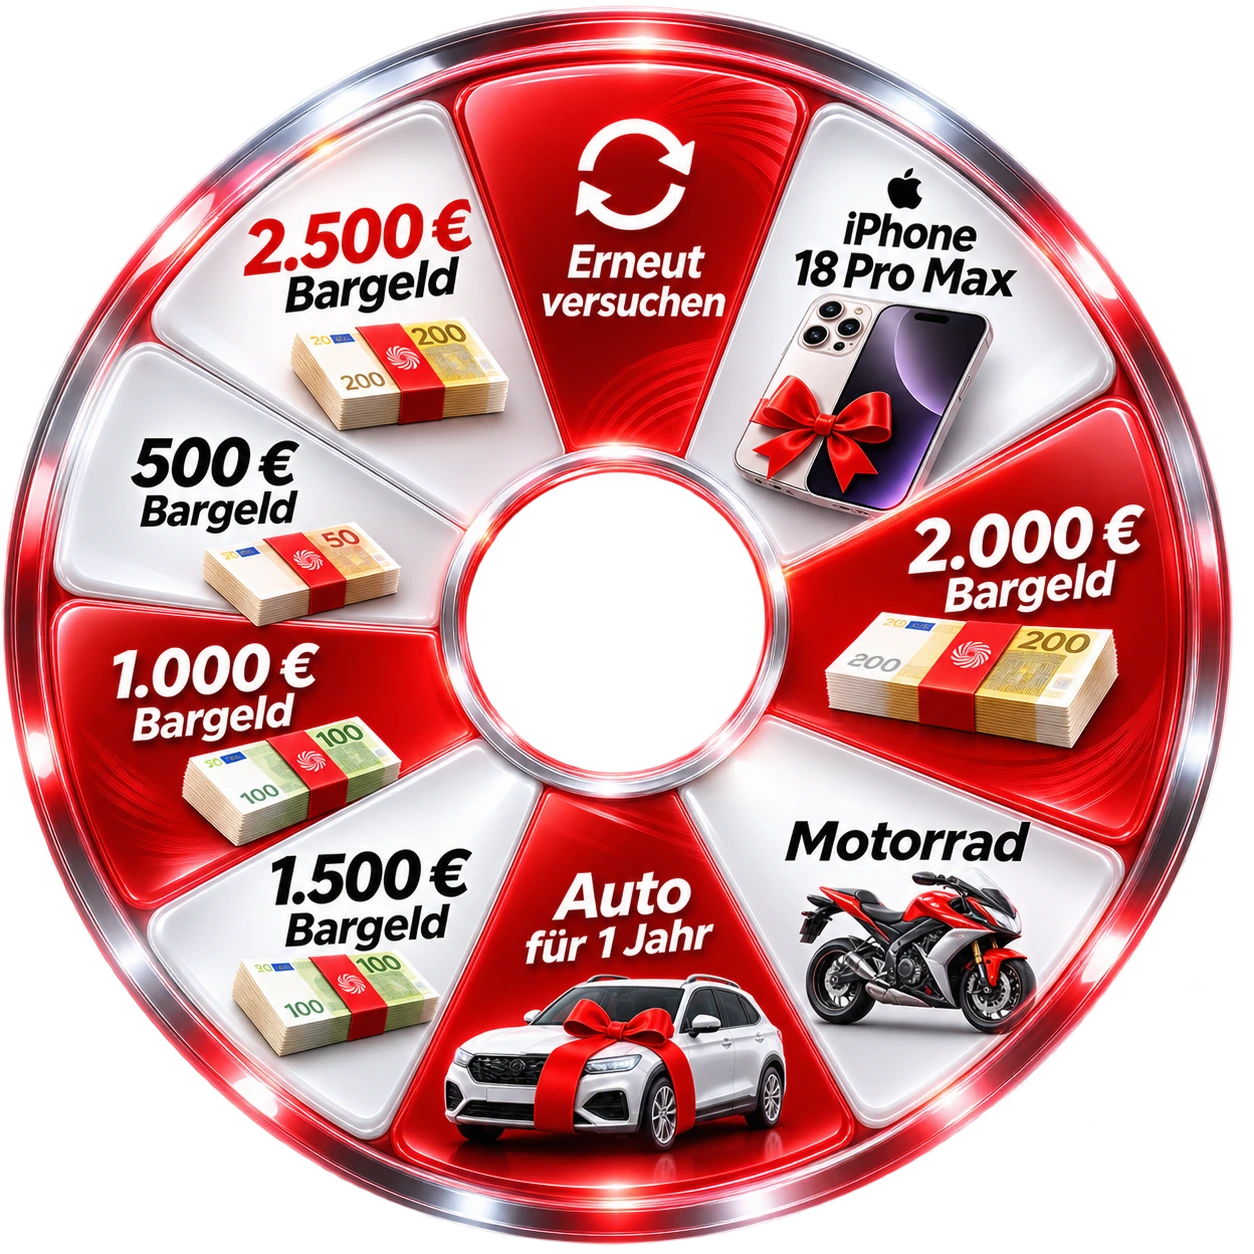
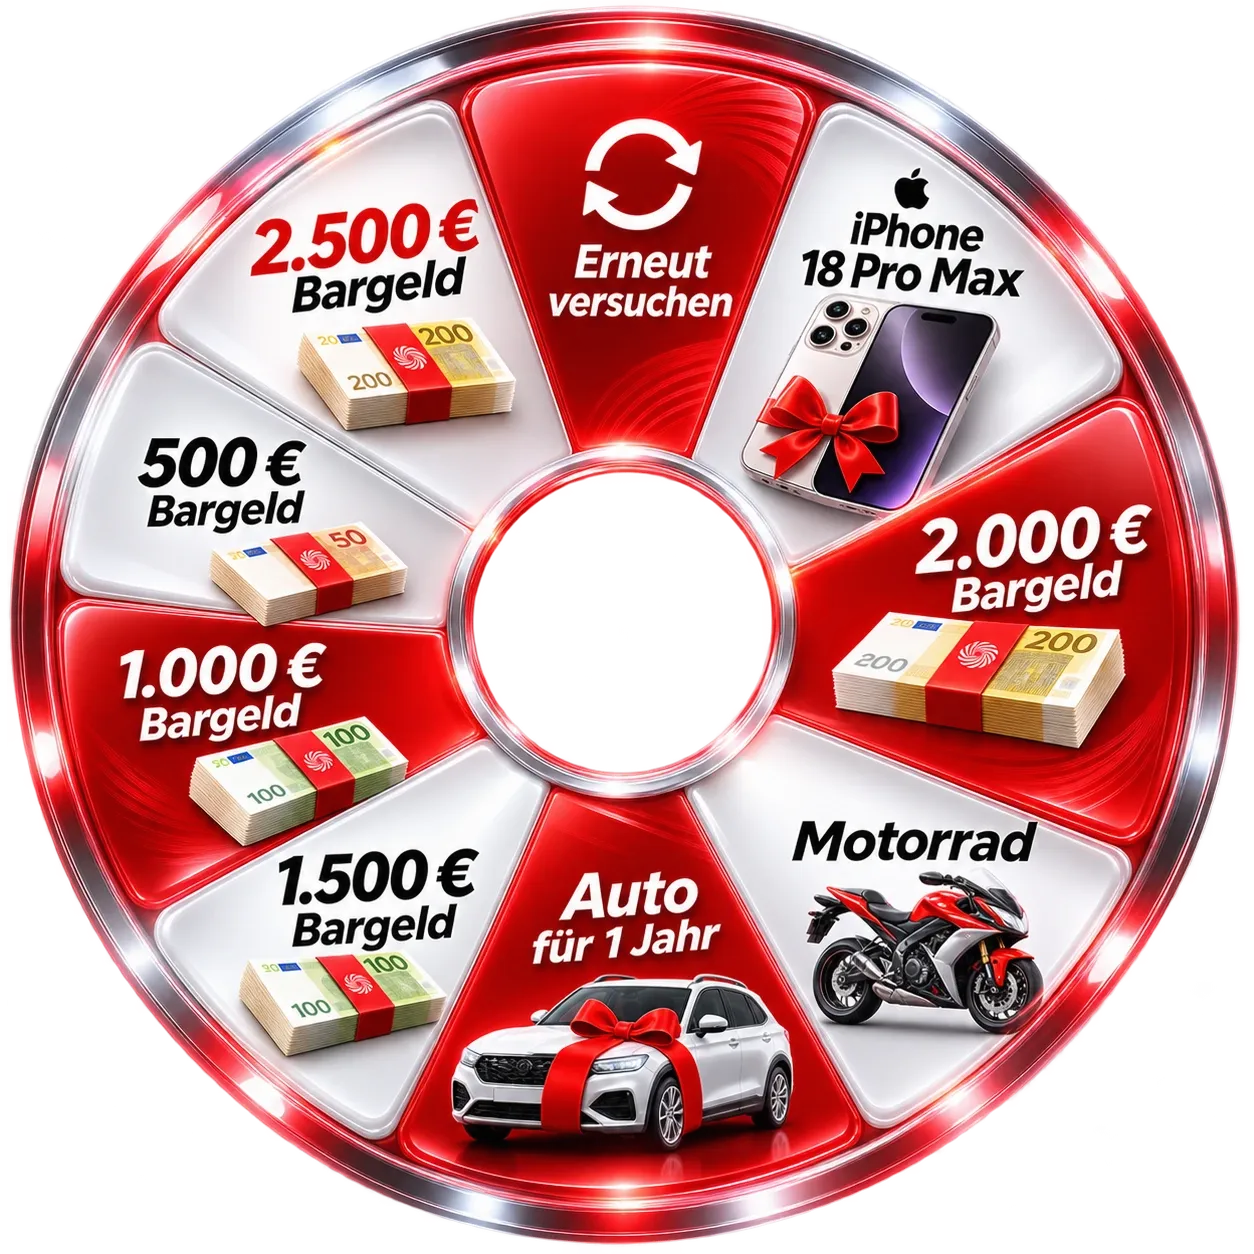
wheel disk merkezlendi (desktop 7px kayikti) + pivot tam orta nokta - donerken yalpalama ve asimetrik rim kesmesi bitti
Generated with [Devin](https://devin.ai)

Changed region(s): [[0.0, 0.0, 0.9952, 0.9952]]

diff --git a/src/components/AlbertHeijnWheel/AlbertHeijnWheel.tsx b/src/components/AlbertHeijnWheel/AlbertHeijnWheel.tsx
@@ -56,8 +56,8 @@ const WHEEL_ASSETS: Record<
     wheelTop: "9.295%",
     wheelWidth: "41.818%",
     wheelHeight: "74.304%",
-    wheelCx: 49.28,
-    wheelCy: 49.92,
+    wheelCx: 50,
+    wheelCy: 50,
     wheelScale: 0.79,
 
     // Hub gorseli, wheel kutusunun yuzdesi olarak merkeze oturur.
@@ -85,8 +85,8 @@ const WHEEL_ASSETS: Record<
     wheelTop: "22.226%",
     wheelWidth: "77.433%",
     wheelHeight: "43.579%",
-    wheelCx: 49.92,
-    wheelCy: 49.92,
+    wheelCx: 50,
+    wheelCy: 50,
     wheelScale: 0.79,
 
     hubWidthPct: 30,
